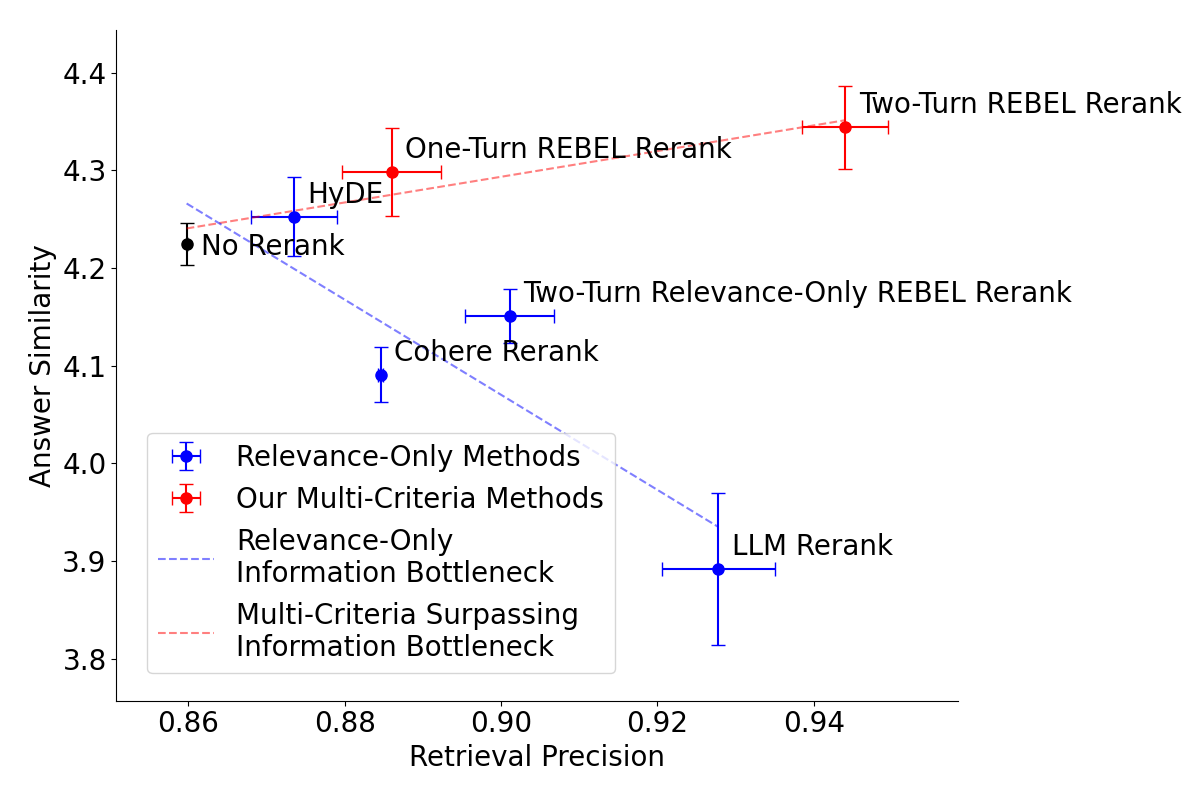
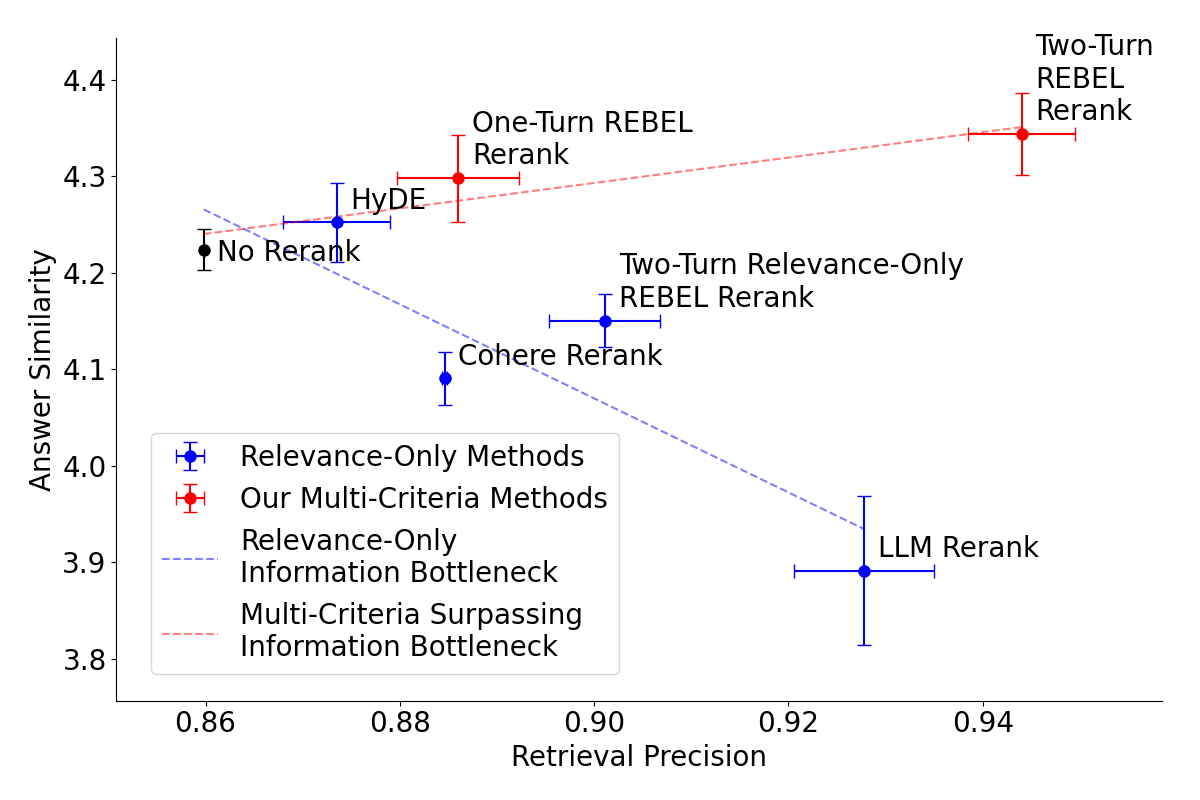
update plots

diff --git a/plot_figures.py b/plot_figures.py
@@ -131,6 +131,12 @@ def figure_1(output_path, results_dir):
             ax.annotate(txt, (data['RetrievalPrecision_mean'][i], data['AnswerSimilarity_mean'][i]),
                       xytext=(10, -8), textcoords='offset points')
         else:
+            if txt == 'Two-Turn Relevance-Only REBEL Rerank':
+                txt = 'Two-Turn Relevance-Only\nREBEL Rerank'
+            if txt == 'Two-Turn REBEL Rerank':
+                txt = 'Two-Turn\nREBEL\nRerank'
+            if txt == 'One-Turn REBEL Rerank':
+                txt = 'One-Turn REBEL\nRerank'
             ax.annotate(txt, (data['RetrievalPrecision_mean'][i], data['AnswerSimilarity_mean'][i]),
                       xytext=(10, 10), textcoords='offset points')
 
